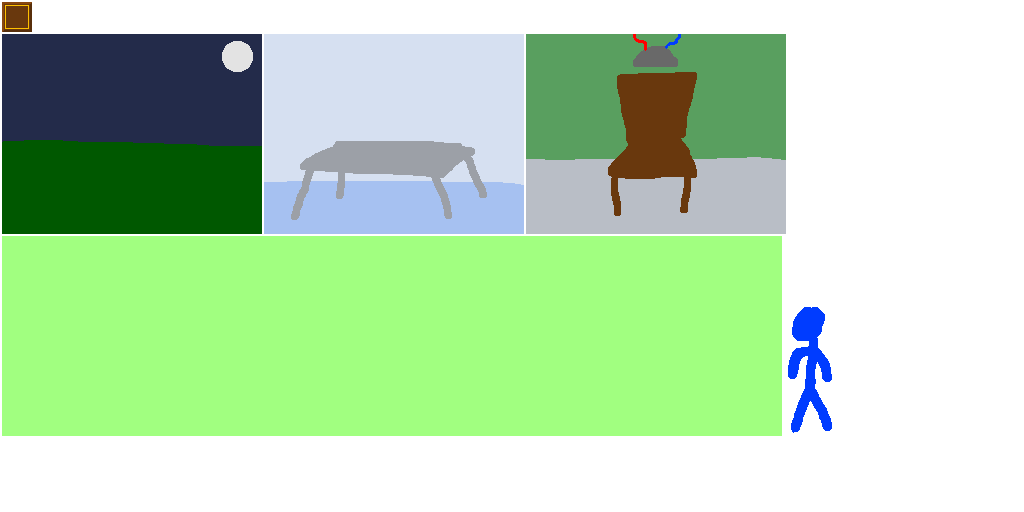
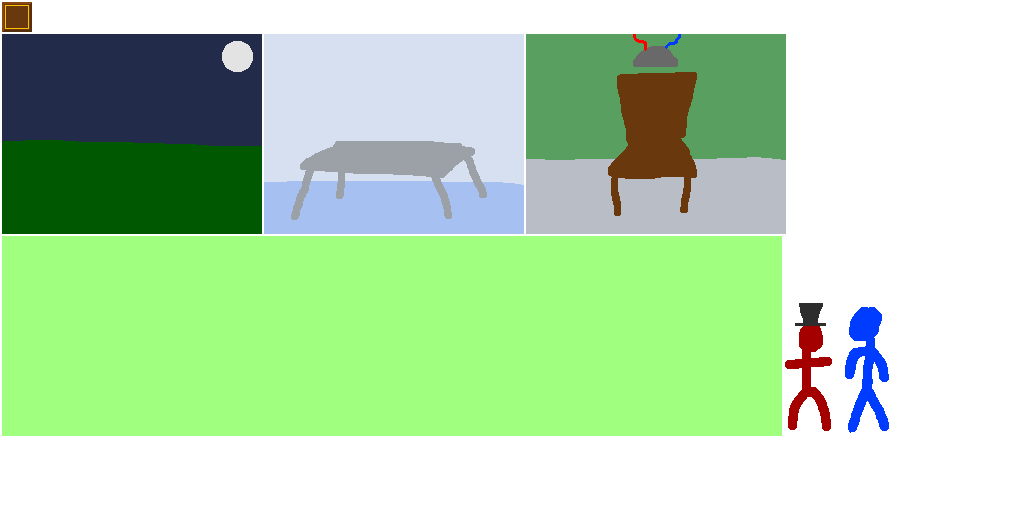
You can now hire applicants! They're way more effective than monsters.

Changed region(s): [[0.75, 0.5938, 0.875, 0.8438]]

diff --git a/core/src/uk/co/samatkins/frankenstein/PlayScene.java b/core/src/uk/co/samatkins/frankenstein/PlayScene.java
@@ -51,8 +51,13 @@ public class PlayScene extends Scene {
 	private final Label incomeLabel;
 	private final Label expensesLabel;
 
+	private final TextureRegion applicantImage;
+	private int applicantCount;
+	private float applicantCounter;
 	private final TextureRegion tempMan;
 	private final Group sellOverlay;
+
+	private boolean draggingApplicant;
 	private boolean draggingMonster;
 	private float dragX, dragY;
 
@@ -60,32 +65,40 @@ public class PlayScene extends Scene {
 		Digging,
 		Surgery,
 		Zapping,
+		MonsterCloset,
+		Applicants,
+		PublicOutrage,
 		Sell
 	}
 	private Room getRoomAtPosition(float x, float y) {
+		Room result;
+
 		if (x < 0 || x >= 780 || y < 0 || y >= 600) {
-			return null;
-		}
-
-		if (y < 200) {
-			return Room.Sell;
-		}
-
-		if (x < 260) {
-			if (y >= 400) {
-				return Room.Digging;
-			}
-		} else if (x < 520) {
-			if (y >= 400) {
-				return Room.Surgery;
-			}
+			result = null;
 		} else {
-			if (y >= 400) {
-				return Room.Zapping;
+
+			if (y < 200) {
+				result = Room.Sell;
+			} else if (y < 400) {
+				if (x < 260) {
+					result = Room.MonsterCloset;
+				} else if (x < 520) {
+					result = Room.Applicants;
+				} else {
+					result = Room.PublicOutrage;
+				}
+			} else {
+				if (x < 260) {
+					result = Room.Digging;
+				} else if (x < 520) {
+					result = Room.Surgery;
+				} else {
+					result = Room.Zapping;
+				}
 			}
 		}
 
-		return null;
+		return result;
 	}
 
 	PlayScene(FrankGame game) {
@@ -100,10 +113,13 @@ public class PlayScene extends Scene {
 		secondsCounter = 0;
 
 		tempMan = game.skin.getRegion("temp-man");
+		applicantImage = game.skin.getRegion("applicant");
 
 		bodyPartCount = 0;
 		bodyCount = 0;
 		monsterCount = 11;
+		applicantCount = 3 + 3;
+		applicantCounter = 0;
 
 		diggingBackground = game.skin.getRegion("graves");
 		diggers = 0;
@@ -177,36 +193,40 @@ public class PlayScene extends Scene {
 			public void touchUp(InputEvent event, float x, float y, int pointer, int button) {
 				super.touchUp(event, x, y, pointer, button);
 				if (pointer == Input.Buttons.LEFT
-					&& draggingMonster) {
+					&& (draggingMonster || draggingApplicant)) {
 
 					Room room = getRoomAtPosition(x, y);
 					if (room != null) {
 						switch (room) {
 							case Digging: {
-								addDigger(true);
+								addDigger(draggingMonster);
 							} break;
 
 							case Surgery: {
-								addSurgeon(true);
+								addSurgeon(draggingMonster);
 							} break;
 
 							case Zapping: {
-								addZapper(true);
+								addZapper(draggingMonster);
 							} break;
 
 							case Sell: {
-								sellMonster();
+								if (draggingMonster) {
+									sellMonster();
+								}
 							} break;
 						}
 					}
 					draggingMonster = false;
+					draggingApplicant = false;
 				}
 			}
 
 			@Override
 			public void touchDragged(InputEvent event, float x, float y, int pointer) {
 				super.touchDragged(event, x, y, pointer);
-				if (draggingMonster && pointer == Input.Buttons.LEFT) {
+				if (pointer == Input.Buttons.LEFT
+					&& (draggingMonster || draggingApplicant)) {
 					dragX = x;
 					dragY = y;
 				}
@@ -215,18 +235,36 @@ public class PlayScene extends Scene {
 			@Override
 			public boolean touchDown(InputEvent event, float x, float y, int pointer, int button) {
 				// Drag a monster if we have monsters and the mouse is in the monster closet
-				if (pointer == Input.Buttons.LEFT
-					&& monsterCount >= 1
-					&& x >= 0 && x <= 260
-					&& y >= 200 && y <= 400) {
+				if (pointer == Input.Buttons.LEFT) {
 
-					draggingMonster = true;
-					dragX = x;
-					dragY = y;
+					Room room = getRoomAtPosition(x, y);
+					if (room == null) {
+						return false;
+					}
+
+					switch (room) {
+						case MonsterCloset: {
+							if (monsterCount >= 1) {
+								draggingMonster = true;
+								dragX = x;
+								dragY = y;
+								return true;
+							}
+						} break;
+
+						case Applicants: {
+							if (applicantCount >= 1) {
+								draggingApplicant = true;
+								dragX = x;
+								dragY = y;
+								return true;
+							}
+						} break;
+					}
 
 					return true;
 				} else {
-					return super.touchDown(event, x, y, pointer, button);
+					return false;
 				}
 			}
 		});
@@ -304,8 +342,16 @@ public class PlayScene extends Scene {
 			}
 
 			moneyChangeCounter -= 1f;
-//			money.add(income);
 			money.subtract(expensesPerSecond);
+		}
+
+		// New applicants!
+		if (applicantCount < 5) {
+			applicantCounter += delta;
+			if (applicantCounter > 10f) {
+				applicantCounter -= 10f;
+				applicantCount++;
+			}
 		}
 
 		updateLabels();
@@ -321,6 +367,7 @@ public class PlayScene extends Scene {
 		zappingLabel.setText(String.format("Monsters: %1$d (%2$.2f / minute)", monsterCount, monstersPerMinute));
 
 		monstersLabel.setText(String.format("Monsters: %d\n(Click and drag to assign or sell)", monsterCount));
+		applicantsLabel.setText(String.format("Applicants: %d\n(Click and drag to assign)", applicantCount));
 
 		incomeLabel.setText(String.format("Income: %s / minute", income));
 		expensesLabel.setText(String.format("Expenses: %s / minute", expenses));
@@ -347,6 +394,11 @@ public class PlayScene extends Scene {
 		}
 
 		// Job applicants
+//		batch.draw(zappingBackground, 0, 200);
+		int drawApplicants = applicantCount - (draggingApplicant ? 1 : 0);
+		for (int i=0; i<drawApplicants; i++) {
+			batch.draw(applicantImage, 260 + (i % 8) * 30, 250 - (i / 8) * 10);
+		}
 
 		// Public Outrage
 
@@ -357,6 +409,10 @@ public class PlayScene extends Scene {
 			batch.draw(tempMan, dragX, dragY);
 		} else {
 			sellOverlay.setVisible(false);
+		}
+
+		if (draggingApplicant) {
+			batch.draw(applicantImage, dragX, dragY);
 		}
 
 		batch.end();
@@ -370,6 +426,7 @@ public class PlayScene extends Scene {
 			monsterCount--;
 		} else {
 			diggers++;
+			applicantCount--;
 		}
 		float digPerMinute = (diggers * 18f) + (diggerMonsters * 4f);
 		diggingDelay = 60f / digPerMinute;
@@ -383,6 +440,7 @@ public class PlayScene extends Scene {
 			monsterCount--;
 		} else {
 			surgeons++;
+			applicantCount--;
 		}
 		float stitchPerMinute = (surgeons * 4f) + (surgeonMonsters * 1f);
 		stitchingDelay = 60f / stitchPerMinute;
@@ -396,6 +454,7 @@ public class PlayScene extends Scene {
 			monsterCount--;
 		} else {
 			zappers++;
+			applicantCount--;
 		}
 		float zapPerMinute = (zappers * 3f) + (zapperMonsters * 0.8f);
 		zappingDelay = 60f / zapPerMinute;
